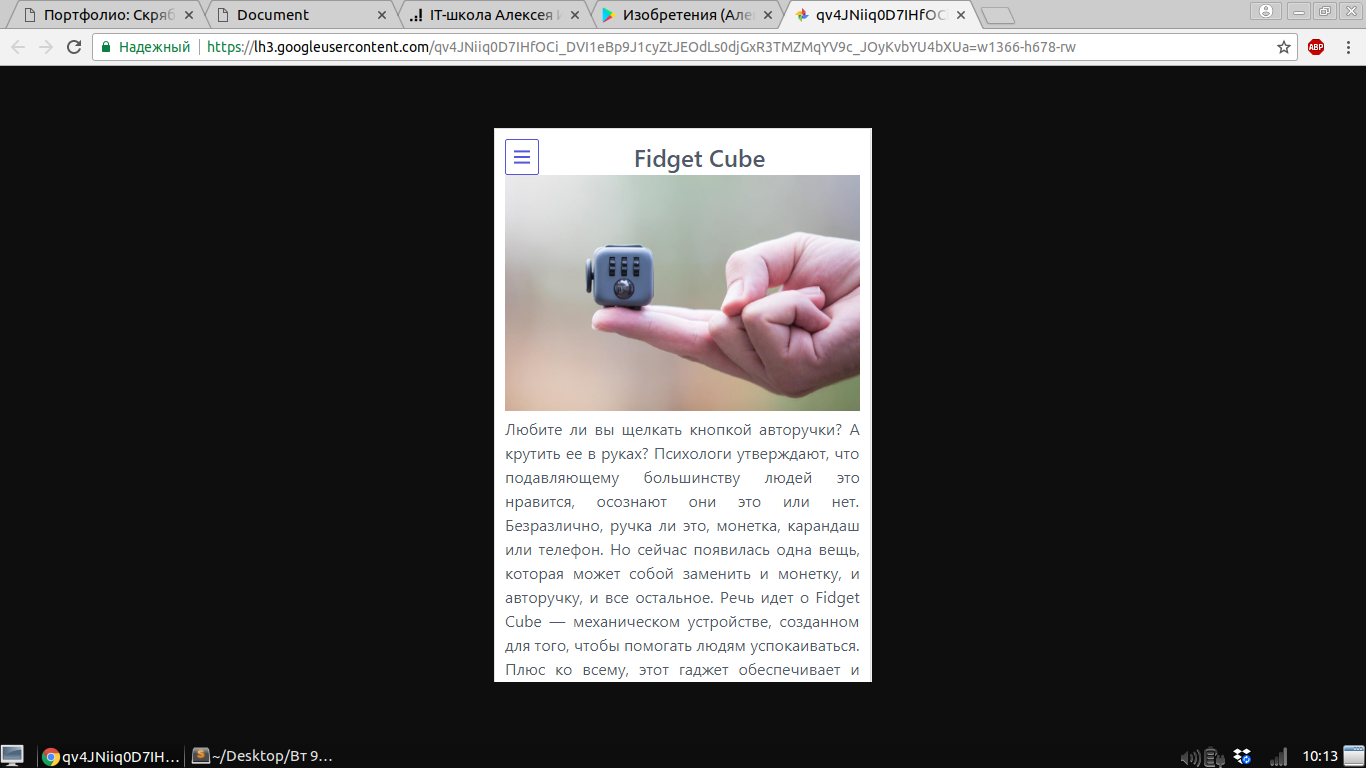
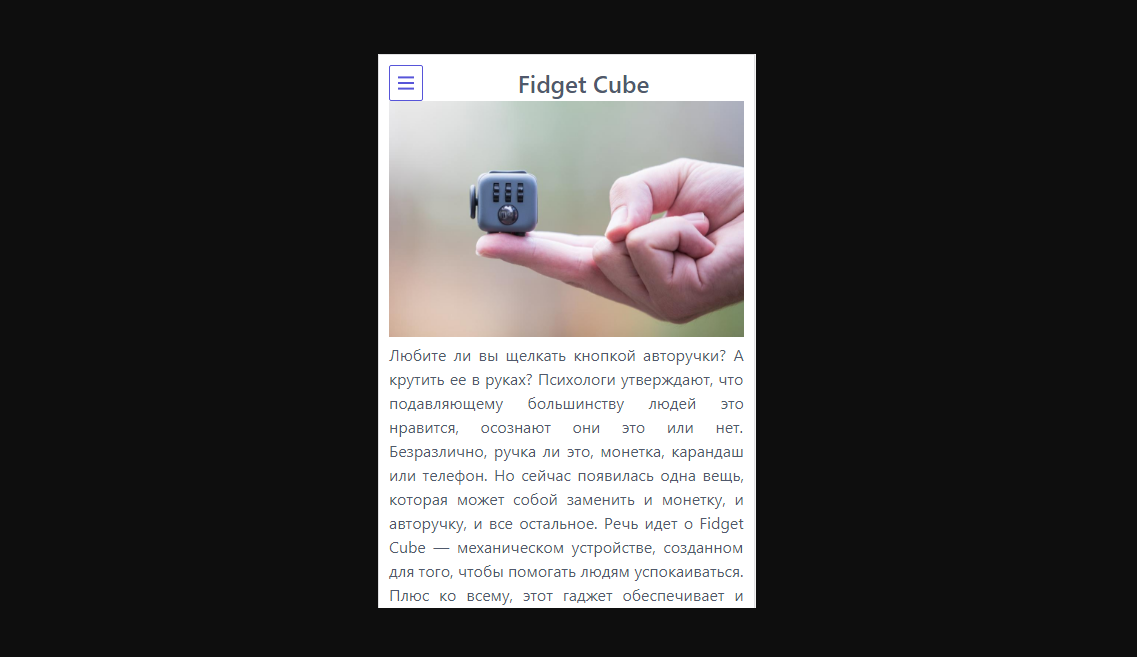
Add files via upload

Changed region(s): [[0.0, 0.0, 1.0, 0.9437], [0.0, 0.9741, 0.2463, 1.0], [0.8619, 0.9437, 1.0, 1.0]]

diff --git a/index.html b/index.html
@@ -30,8 +30,8 @@
       <br><br>
       <h1 class="header center black-text">Скрябин Владислав Виталиевич</h1>
       <div class="row center">
-        <div class="col s6 offset-s3 pink">
-          <img class="materialboxed" width="100%" src="images/I.png">
+        <div class="col s6 offset-s3">
+          <img class="materialboxed" width="100%" src="images/1.jpg">
         </div>
       </div>
       <br><br>
@@ -112,7 +112,7 @@
     <div class="col s6">
       <div class="card">
         <div class="card-image">
-          <a href="#"><img src="images/2018-05-29-095021_1366x768_scrot.png"></a>
+          <a href="https://bobik506.github.io/lololololololololololol/"><img src="images/2018-05-29-095021_1366x768_scrot.png"></a>
         </div>
       </div>
     </div>
@@ -134,7 +134,7 @@
     <div class="col s6">
       <div class="card">
         <div class="card-image">
-          <a href="index.html"><img src="images/2018-05-29-101341_1366x768_scrot.png"></a>
+          <a href="https://play.google.com/store/apps/details?id=ru.itlabor.vt9_5"><img src="images/2018-05-29-101341_1366x768_scrot.png"></a>
         </div>
       </div>
     </div>
@@ -156,7 +156,7 @@
     <div class="col s6">
       <div class="card">
         <div class="card-image">
-          <a href="index.html"><img src="images/2018-05-31-092827_1366x768_scrot.png"></a>
+          <a href="https://play.google.com/store/apps/details?id=ru.itlabor.game28"><img src="images/2018-05-31-092827_1366x768_scrot.png"></a>
         </div>
       </div>
     </div>
@@ -165,7 +165,7 @@
       <ol>
         Цель игры в перепригивании препятсвий. Если вы пользователь Google и у вас отключали интернет вы сразу поймёте как играть. Самая соль игры заключается в спавне препятсвий (в 99% случаев их невозможно перепрыгнуть). Написан на языке JavaScript. Пользовался фреймворком PHASER.
       </ol>
-      <a class="waves-effect waves-light btn" href="index.html">Скачать</a>
+      <a class="waves-effect waves-light btn" href="https://play.google.com/store/apps/details?id=ru.itlabor.game28">Скачать</a>
     </div>
   </div>
 
@@ -182,7 +182,7 @@
           <h5 class="white-text">КОНТАКТНАЯ ИНФОРМАЦИЯ</h5>
           <ul>
             <li class="white-text">г. Якутск</li>
-            <li class="white-text">к / т: 9248757796`</li>
+            <li class="white-text">м/т: 9248757796</li>
             <li class="white-text">e-mail: jake200506@mail.ru</li>
             
           </ul>
